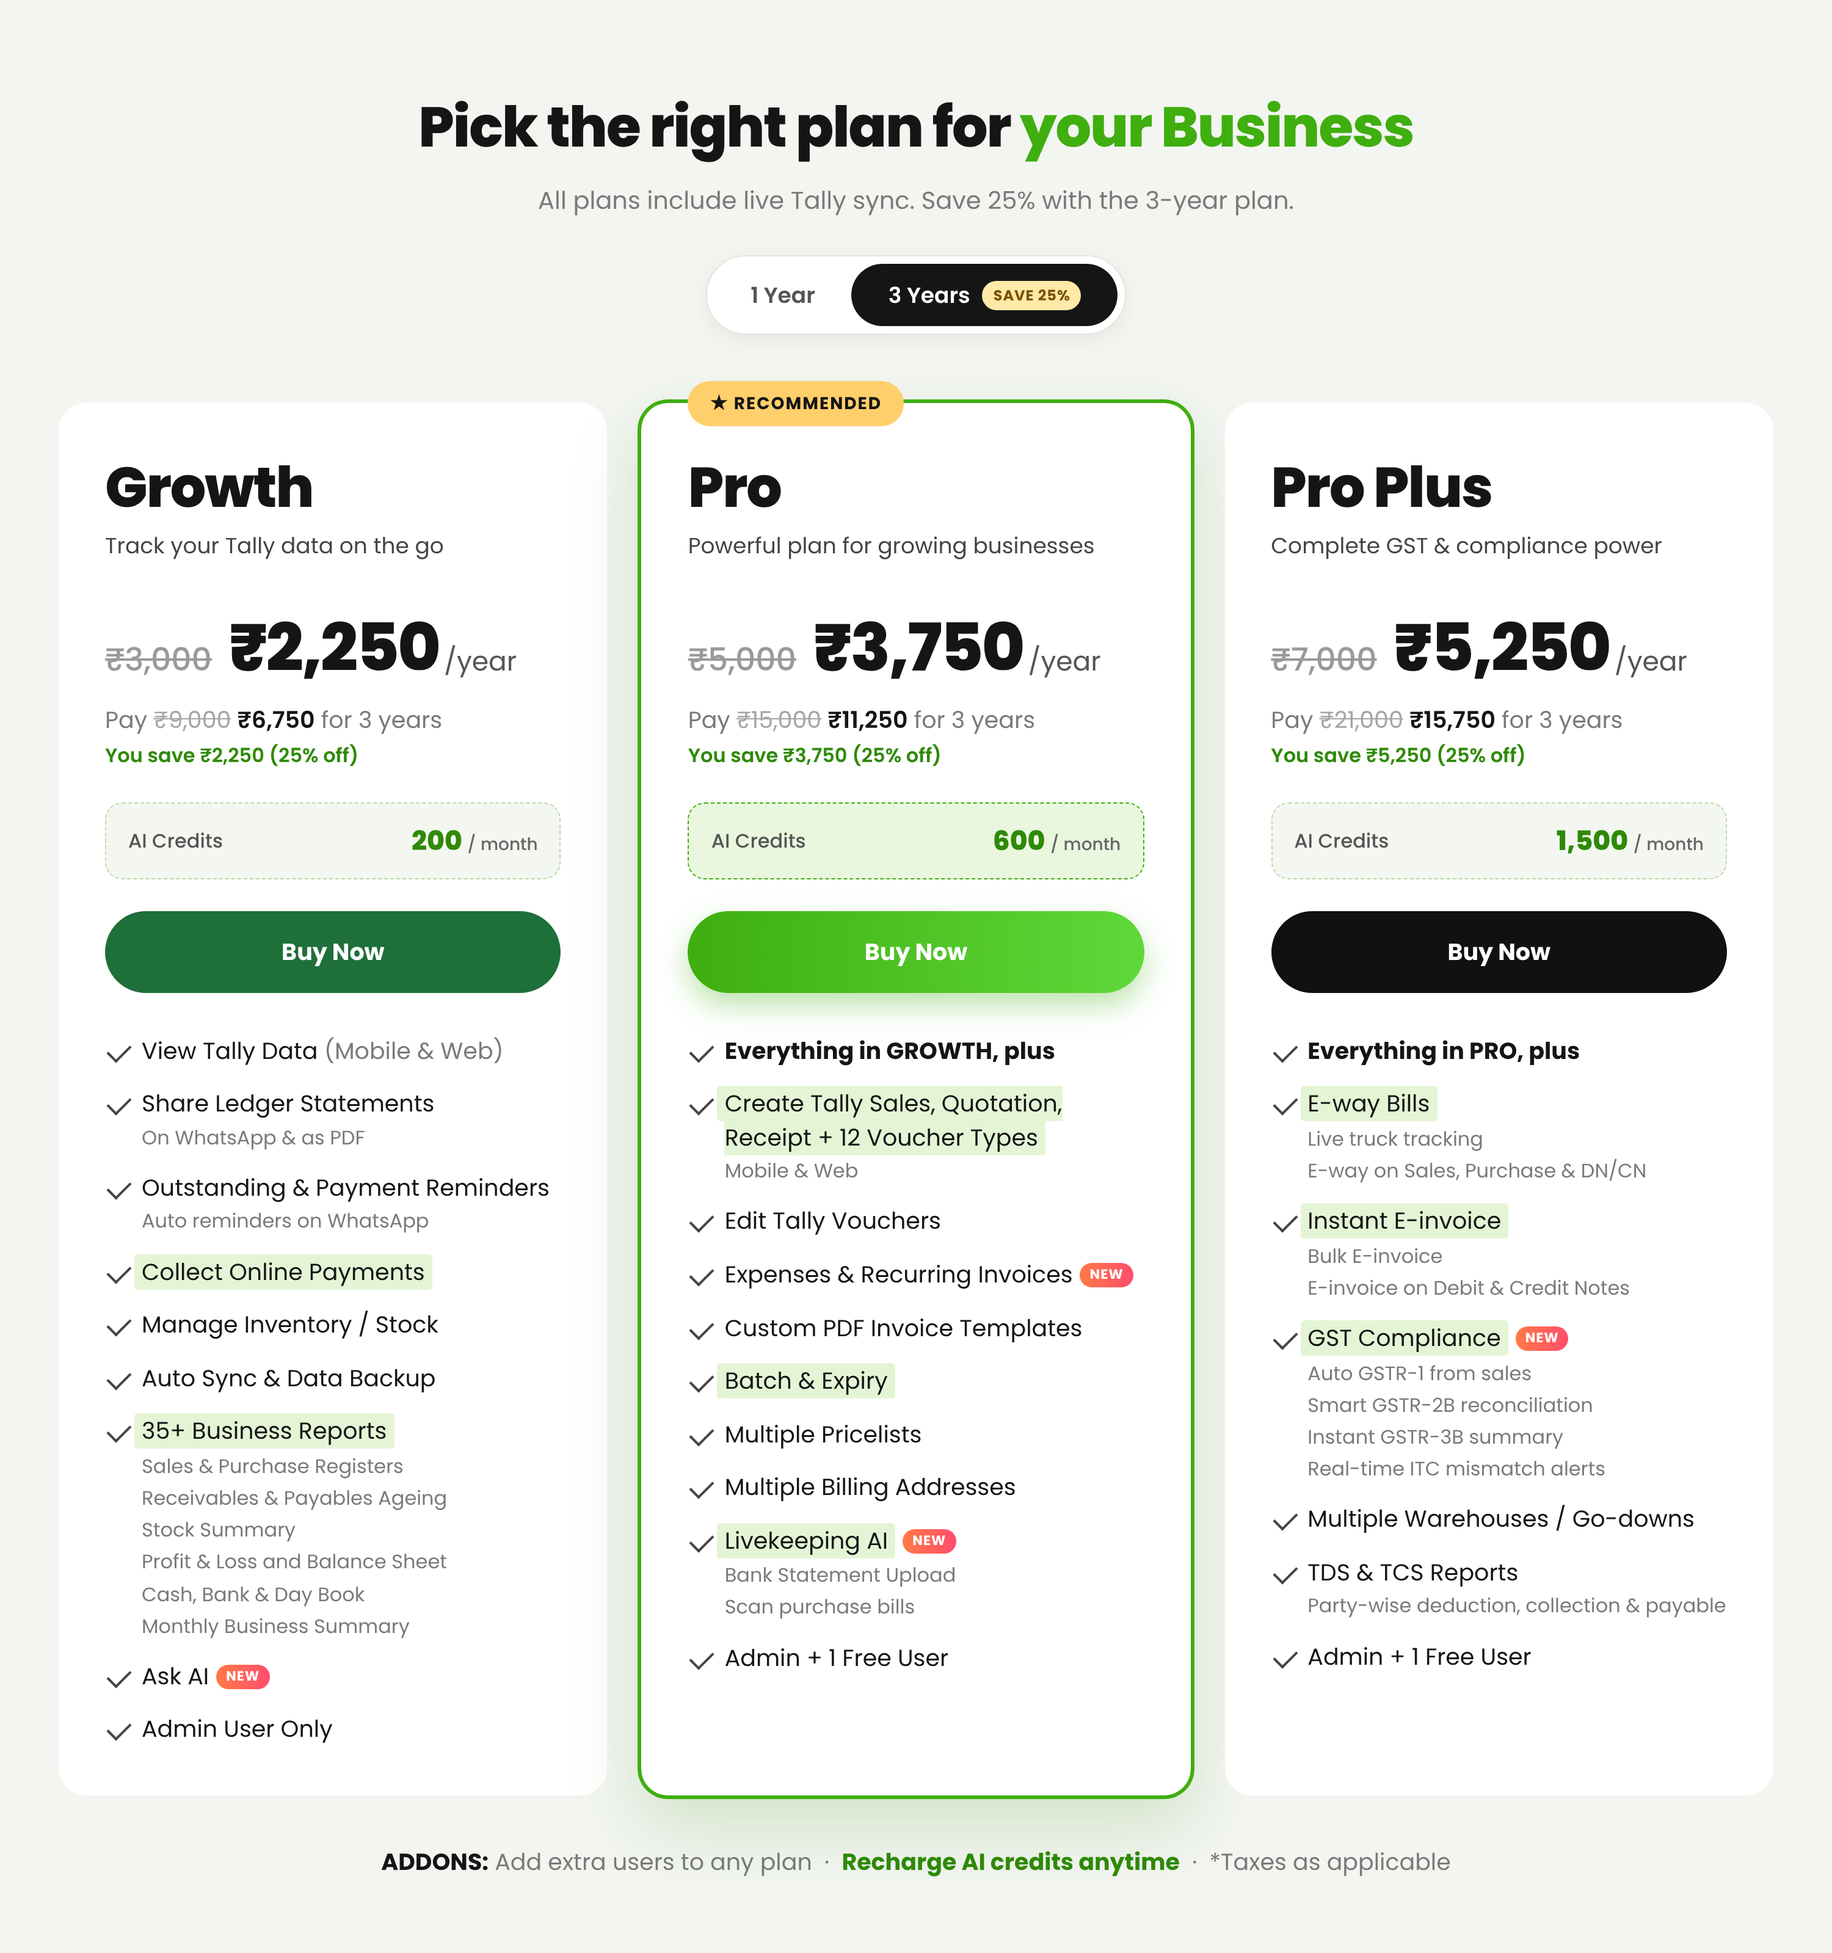
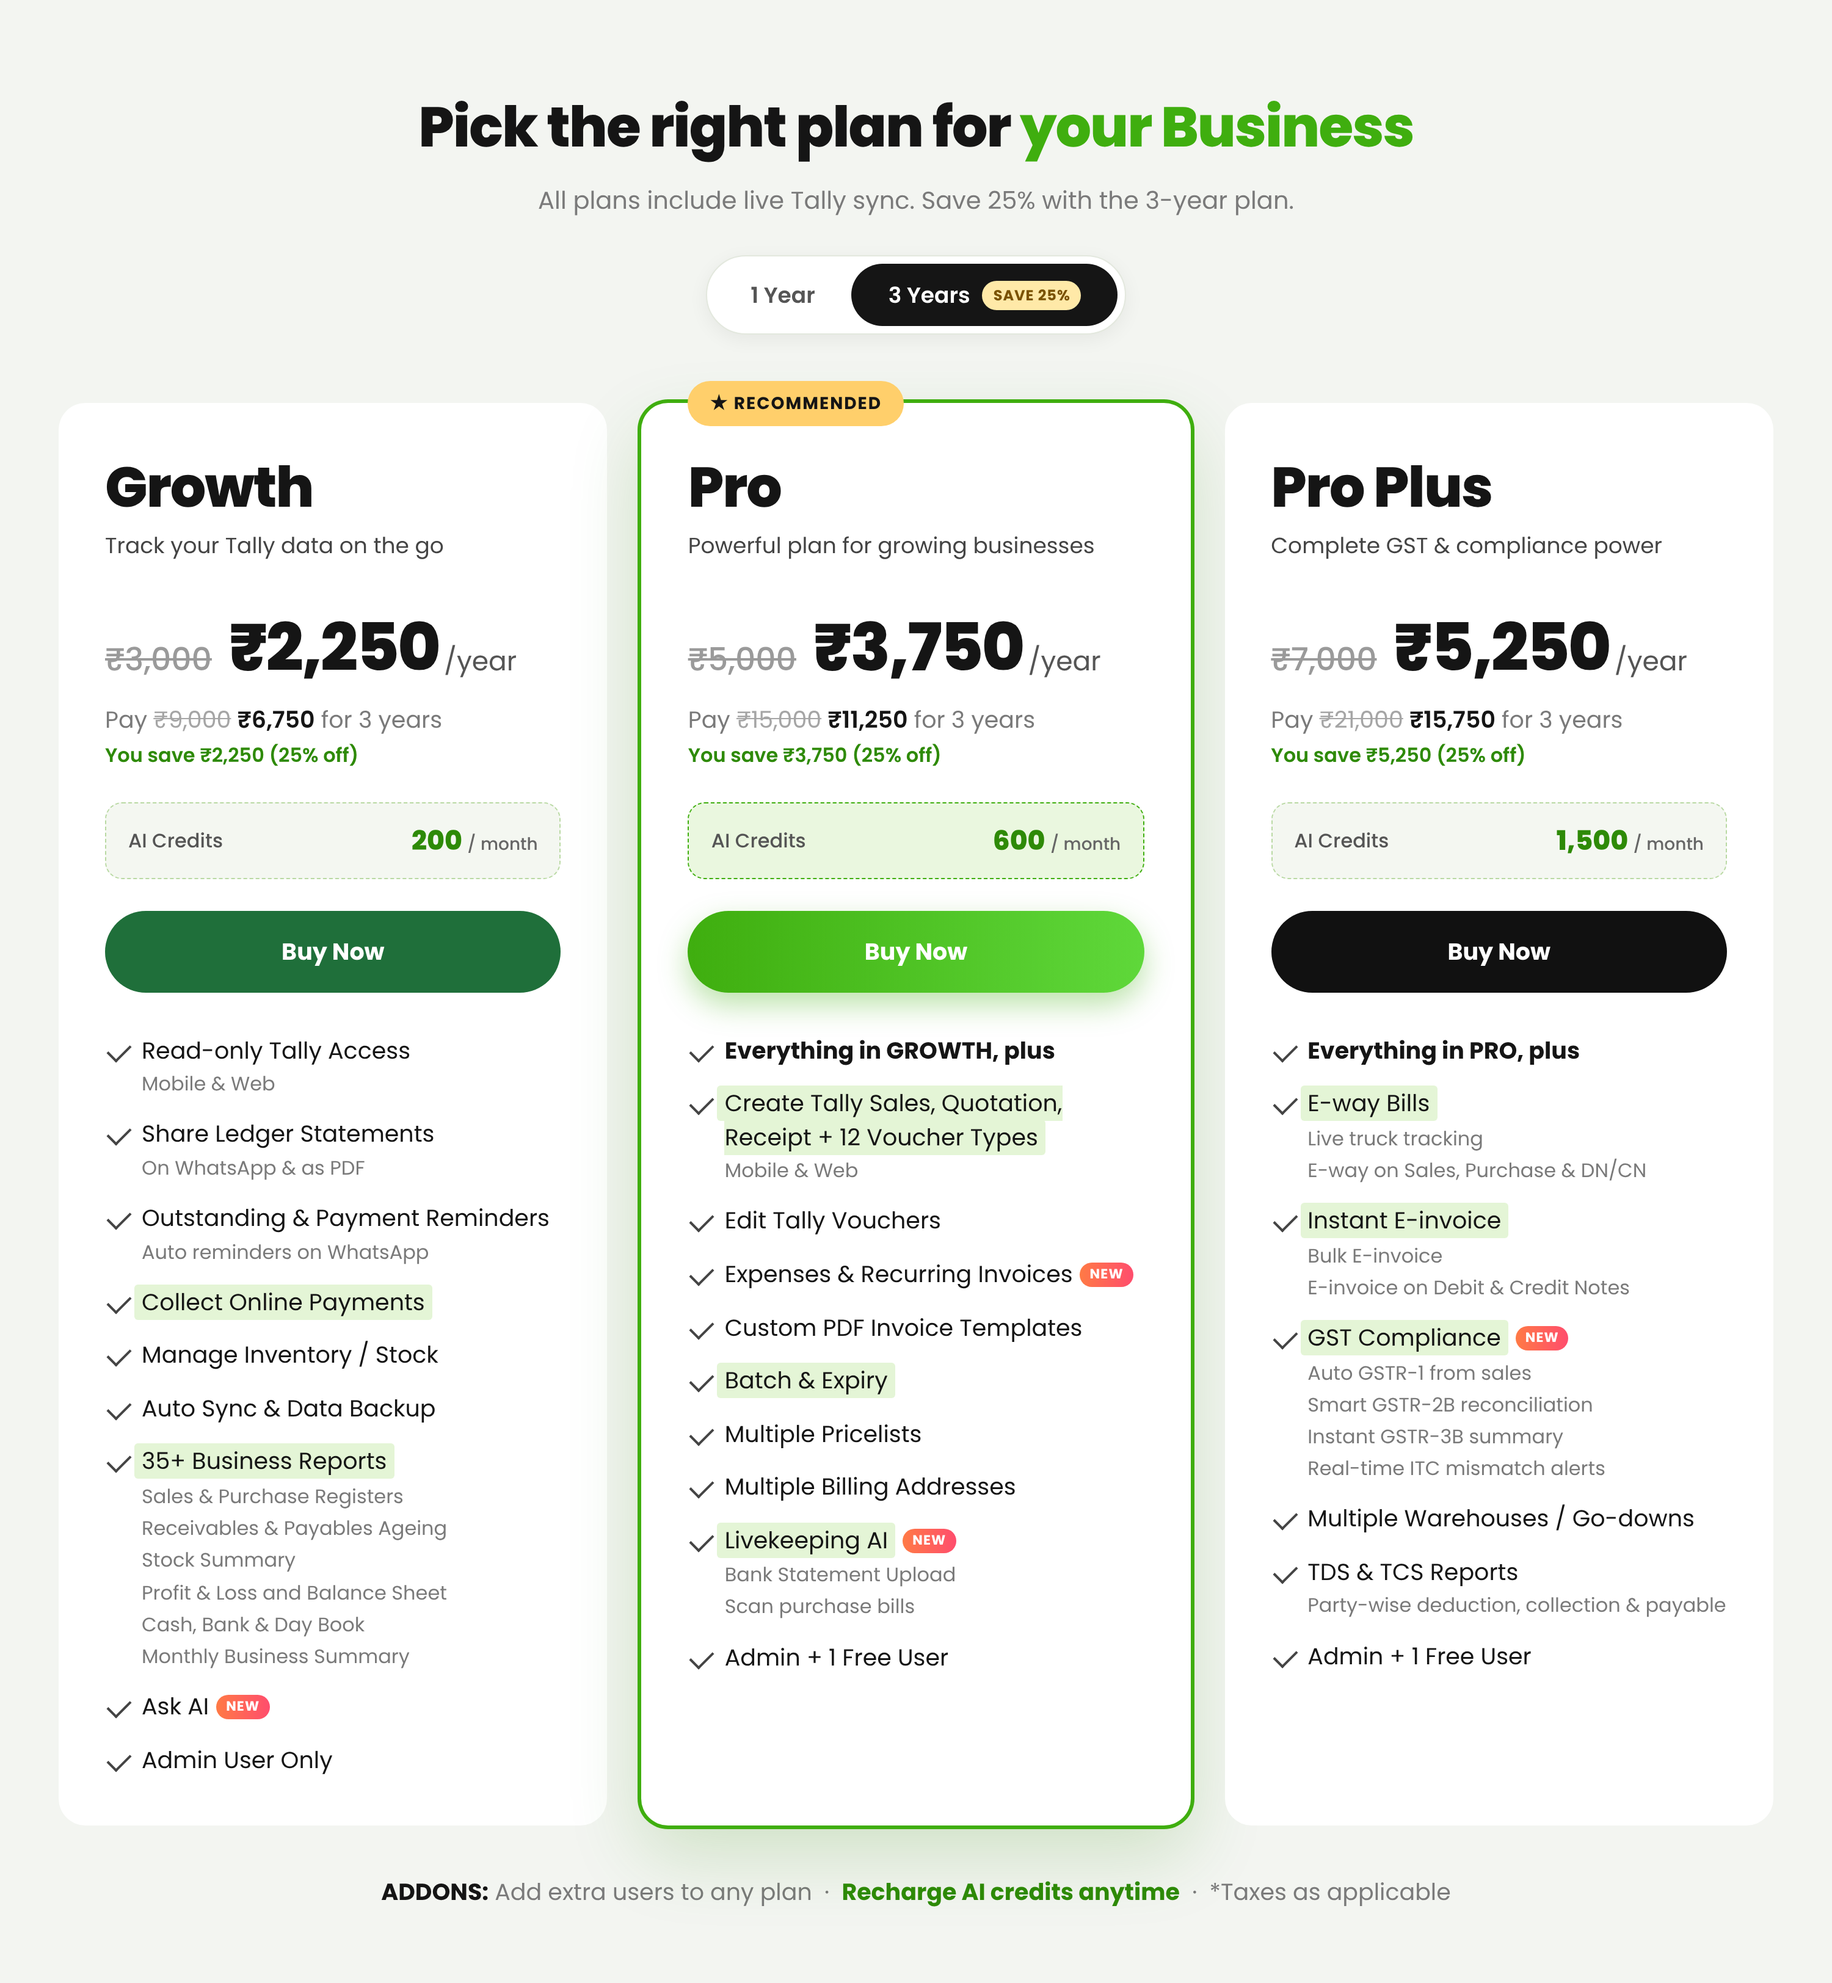
Pricing cards: Read-only Tally Access with Mobile & Web below
Claude-Session: https://claude.ai/code/session_01TUFe6273V25gsCzznixesV

diff --git a/livekeeping-pricing/cards.html b/livekeeping-pricing/cards.html
@@ -146,7 +146,7 @@
       <div class="credits"><span class="lbl">AI Credits</span><span class="num">200 <small>/ month</small></span></div>
       <div class="btn">Buy Now</div>
       <ul>
-        <li><div>View Tally Data <span class="sub2">(Mobile &amp; Web)</span></div></li>
+        <li><div>Read-only Tally Access<span class="note">Mobile &amp; Web</span></div></li>
         <li><div>Share Ledger Statements<span class="note">On WhatsApp &amp; as PDF</span></div></li>
         <li><div>Outstanding &amp; Payment Reminders<span class="note">Auto reminders on WhatsApp</span></div></li>
         <li><div><span class="hl">Collect Online Payments</span></div></li>
